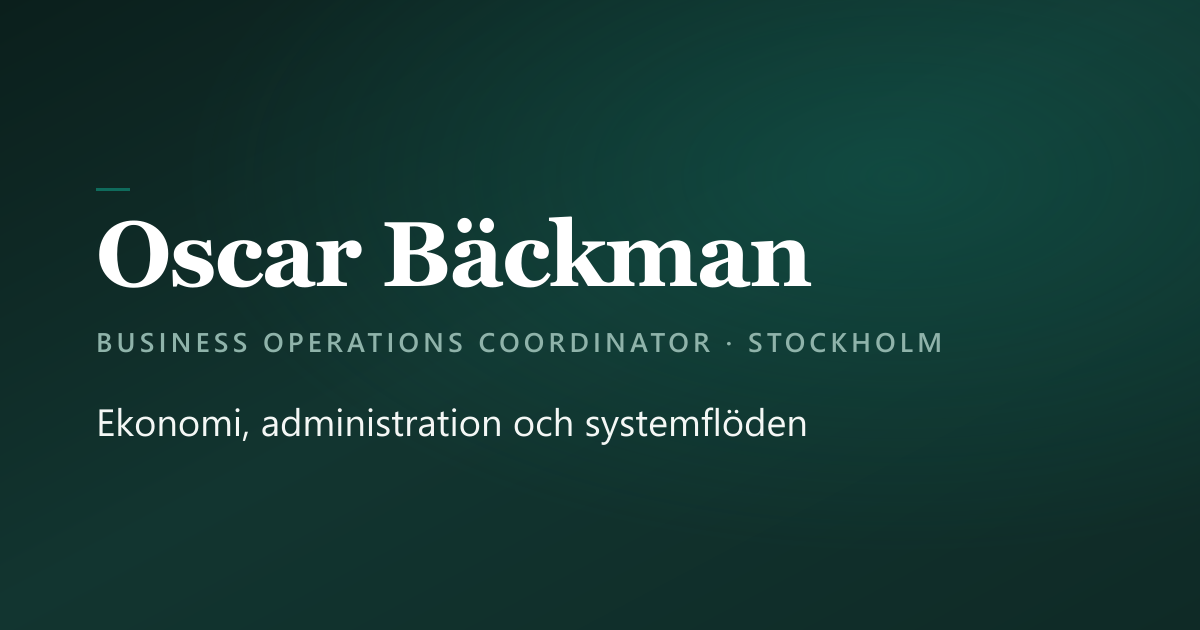
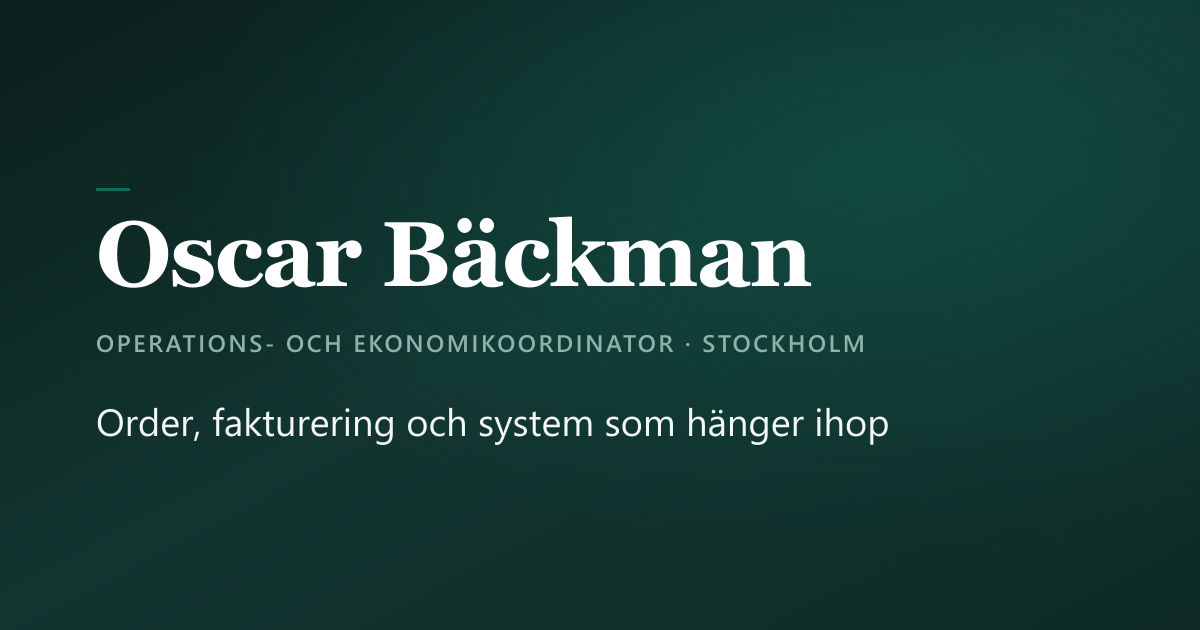
Update site branding to Operations- och ekonomikoordinator.
Align title, profile copy, SEO metadata, and OG image with the Swedish role description.

Changed region(s): [[0.0617, 0.5127, 0.8017, 0.573], [0.0617, 0.6333, 0.74, 0.6937]]

diff --git a/public/index.html b/public/index.html
@@ -11,26 +11,26 @@
     <meta name="author" content="Oscar Bäckman" />
     <meta name="robots" content="index, follow" />
 
-    <title>Oscar Bäckman — Business Operations Coordinator</title>
-    <meta name="description" content="Business Operations Coordinator i Stockholm. Håller ihop ekonomi, order och systemflöden i bolag som växer fortare än sina rutiner." />
+    <title>Oscar Bäckman — Operations- och ekonomikoordinator</title>
+    <meta name="description" content="Operations- och ekonomikoordinator i Stockholm. Håller ihop order, fakturering och systemflöden så att rätt saker händer i rätt ordning." />
     <link rel="canonical" href="https://oscarbackman.se/" />
 
     <meta property="og:site_name" content="Oscar Bäckman" />
-    <meta property="og:title" content="Oscar Bäckman — Business Operations Coordinator" />
-    <meta property="og:description" content="Business Operations Coordinator i Stockholm. Håller ihop ekonomi, order och systemflöden i bolag som växer fortare än sina rutiner." />
+    <meta property="og:title" content="Oscar Bäckman — Operations- och ekonomikoordinator" />
+    <meta property="og:description" content="Operations- och ekonomikoordinator i Stockholm. Håller ihop order, fakturering och systemflöden så att rätt saker händer i rätt ordning." />
     <meta property="og:type" content="website" />
     <meta property="og:url" content="https://oscarbackman.se/" />
     <meta property="og:locale" content="sv_SE" />
     <meta property="og:image" content="https://oscarbackman.se/og.png" />
     <meta property="og:image:width" content="1200" />
     <meta property="og:image:height" content="630" />
-    <meta property="og:image:alt" content="Oscar Bäckman — Business Operations Coordinator i Stockholm" />
+    <meta property="og:image:alt" content="Oscar Bäckman — Operations- och ekonomikoordinator i Stockholm" />
 
     <meta name="twitter:card" content="summary_large_image" />
-    <meta name="twitter:title" content="Oscar Bäckman — Business Operations Coordinator" />
-    <meta name="twitter:description" content="Business Operations Coordinator i Stockholm. Håller ihop ekonomi, order och systemflöden i bolag som växer fortare än sina rutiner." />
+    <meta name="twitter:title" content="Oscar Bäckman — Operations- och ekonomikoordinator" />
+    <meta name="twitter:description" content="Operations- och ekonomikoordinator i Stockholm. Håller ihop order, fakturering och systemflöden så att rätt saker händer i rätt ordning." />
     <meta name="twitter:image" content="https://oscarbackman.se/og.png" />
-    <meta name="twitter:image:alt" content="Oscar Bäckman — Business Operations Coordinator i Stockholm" />
+    <meta name="twitter:image:alt" content="Oscar Bäckman — Operations- och ekonomikoordinator i Stockholm" />
 
     <link rel="preconnect" href="https://fonts.googleapis.com" />
     <link rel="preconnect" href="https://fonts.gstatic.com" crossorigin />
@@ -51,7 +51,7 @@
             "@type": "Person",
             "@id": "https://oscarbackman.se/#person",
             "name": "Oscar Bäckman",
-            "jobTitle": "Business Operations Coordinator",
+            "jobTitle": "Operations- och ekonomikoordinator",
             "email": "jan.oscar.backman@gmail.com",
             "telephone": "+46720101647",
             "url": "https://oscarbackman.se/",

diff --git a/src/components/AboutMe.js b/src/components/AboutMe.js
@@ -1,6 +1,7 @@
 import React, { useState } from 'react';
 import { Link } from 'react-router-dom';
 import Seo from './Seo';
+import { JOB_TITLE, PROFILE_SUMMARY } from '../data/site';
 import './AboutMe.css';
 
 const CV_PDF = '/cv/oscar-backman-cv.pdf';
@@ -23,7 +24,7 @@ function AboutMe() {
     <section className="about section">
       <Seo
         title="Om mig — Oscar Bäckman"
-        description="Bakgrund inom ekonomi, orderadministration och systemintegrationer. Bygger också egna verktyg."
+        description="Operations- och ekonomikoordinator med bakgrund inom order, fakturering och affärssystem. Bygger också egna verktyg."
         path="/about"
       />
       <div className="section-inner">
@@ -40,7 +41,7 @@ function AboutMe() {
               ) : (
                 <img
                   src={useFallback ? PROFILE_IMG_FALLBACK : PROFILE_IMG}
-                  alt="Oscar Bäckman, Business Operations Coordinator i Stockholm"
+                  alt={`Oscar Bäckman, ${JOB_TITLE} i Stockholm`}
                   width={148}
                   height={148}
                   loading="eager"
@@ -53,7 +54,7 @@ function AboutMe() {
               )}
             </div>
             <h2 className="about__name">Oscar Bäckman</h2>
-            <p className="about__role">Business Operations Coordinator</p>
+            <p className="about__role">{JOB_TITLE}</p>
 
             <dl className="about__meta">
               <div>
@@ -84,11 +85,10 @@ function AboutMe() {
 
           <div className="about__body">
             <p className="about__bio reveal" style={{ animationDelay: '0.16s' }}>
-              Jag har flera års erfarenhet av ekonomi, administration och{' '}
-              <span className="hl">systemflöden</span> i IT- och servicebolag.
-              Jag trivs i den koordinerande rollen där processer, avtal och
-              integrationer ska hänga ihop, och arbetar nära ekonomi, försäljning
-              och support.
+              {PROFILE_SUMMARY} Jag har flera års erfarenhet av ekonomi, order och{' '}
+              <span className="hl">affärssystem</span> i IT- och servicebolag — från
+              SuperOffice och Visma till integrationer mellan webshop och fakturering.
+              Jag arbetar nära ekonomi, försäljning och support.
             </p>
             <div className="about__blocks">
               <div className="about__block panel reveal" style={{ animationDelay: '0.2s' }}>

diff --git a/src/data/site.js b/src/data/site.js
@@ -1,10 +1,20 @@
 import { SITE_URL, OG_IMAGE } from '../config';
 
+export const JOB_TITLE = 'Operations- och ekonomikoordinator';
+export const JOB_TITLE_WITH_LOCATION = `${JOB_TITLE} · Stockholm`;
+export const PAGE_TITLE = `Oscar Bäckman — ${JOB_TITLE}`;
+
+export const HOME_DESCRIPTION =
+  'Operations- och ekonomikoordinator i Stockholm. Håller ihop order, fakturering och systemflöden så att rätt saker händer i rätt ordning.';
+
+export const PROFILE_SUMMARY =
+  'Jag håller ihop processerna — ser till att order, fakturering och system fungerar tillsammans, och att rätt information når rätt person i rätt tid.';
+
 export const PERSON = {
   name: 'Oscar Bäckman',
   givenName: 'Oscar',
   familyName: 'Bäckman',
-  jobTitle: 'Business Operations Coordinator',
+  jobTitle: JOB_TITLE,
   email: 'jan.oscar.backman@gmail.com',
   phone: '+46720101647',
   locality: 'Stockholm',
@@ -16,15 +26,14 @@ export const PERSON = {
 
 export const ROUTES = {
   '/': {
-    title: 'Oscar Bäckman — Business Operations Coordinator',
-    description:
-      'Business Operations Coordinator i Stockholm. Håller ihop ekonomi, order och systemflöden i bolag som växer fortare än sina rutiner.',
+    title: PAGE_TITLE,
+    description: HOME_DESCRIPTION,
     breadcrumb: 'Hem',
   },
   '/about': {
     title: 'Om mig — Oscar Bäckman',
     description:
-      'Bakgrund inom ekonomi, orderadministration och systemintegrationer. Bygger också egna verktyg.',
+      'Operations- och ekonomikoordinator med bakgrund inom order, fakturering och affärssystem. Bygger också egna verktyg.',
     breadcrumb: 'Om mig',
   },
   '/projects': {
@@ -36,13 +45,13 @@ export const ROUTES = {
   '/cv': {
     title: 'CV — Oscar Bäckman',
     description:
-      'Meritförteckning: business operations, orderadministration och ekonomiassistent 2017–2026.',
+      'Meritförteckning: operations, orderadministration och ekonomi 2017–2026.',
     breadcrumb: 'CV',
   },
   '/contact': {
     title: 'Kontakt — Oscar Bäckman',
     description:
-      'Öppen för roller inom order, inköp och business operations i Stockholm. Hör av dig.',
+      'Öppen för roller inom order, inköp, ekonomiadministration och operations i Stockholm. Hör av dig.',
     breadcrumb: 'Kontakt',
   },
 };

diff --git a/src/components/Home.js b/src/components/Home.js
@@ -1,6 +1,13 @@
 import React, { useState } from 'react';
 import { Link } from 'react-router-dom';
 import Seo from './Seo';
+import {
+  HOME_DESCRIPTION,
+  JOB_TITLE,
+  JOB_TITLE_WITH_LOCATION,
+  PAGE_TITLE,
+  PROFILE_SUMMARY,
+} from '../data/site';
 import './Home.css';
 
 const PROFILE_IMG = '/profile.jpg';
@@ -11,8 +18,8 @@ function Home() {
   return (
     <section className="home">
       <Seo
-        title="Oscar Bäckman — Business Operations Coordinator"
-        description="Business Operations Coordinator i Stockholm. Håller ihop ekonomi, order och systemflöden i bolag som växer fortare än sina rutiner."
+        title={PAGE_TITLE}
+        description={HOME_DESCRIPTION}
         path="/"
       />
 
@@ -29,7 +36,7 @@ function Home() {
             ) : (
               <img
                 src={PROFILE_IMG}
-                alt="Oscar Bäckman, Business Operations Coordinator i Stockholm"
+                alt={`Oscar Bäckman, ${JOB_TITLE} i Stockholm`}
                 width={132}
                 height={132}
                 loading="eager"
@@ -40,18 +47,17 @@ function Home() {
           </div>
 
           <div className="home__identity">
-            <p className="home__role">Business Operations Coordinator · Stockholm</p>
+            <p className="home__role">{JOB_TITLE_WITH_LOCATION}</p>
             <p className="home__brand">Oscar Bäckman</p>
           </div>
         </div>
 
         <h1 className="home__headline display reveal" style={{ animationDelay: '0.12s' }}>
-          Ekonomi, administration och systemflöden
+          Order, fakturering och system som hänger ihop
         </h1>
 
         <p className="home__lede reveal" style={{ animationDelay: '0.22s' }}>
-          Jag håller ihop ekonomi, order och system i bolag som växer fortare än
-          sina rutiner. Senast på House of Service, där jag ägde kund- och
+          {PROFILE_SUMMARY} Senast på House of Service, där jag ägde kund- och
           leverantörsfakturaflödet, var huvudkontakt mot vår ekonomipartner och
           byggde vidare på integrationerna mellan affärssystem, webshop och
           fakturering.

diff --git a/src/components/CV.js b/src/components/CV.js
@@ -1,6 +1,7 @@
 import React from 'react';
 import { Link } from 'react-router-dom';
 import Seo from './Seo';
+import { JOB_TITLE, PROFILE_SUMMARY } from '../data/site';
 import './CV.css';
 
 const CV_PDF = '/cv/oscar-backman-cv.pdf';
@@ -126,7 +127,7 @@ function CV() {
     <section className="cv section">
       <Seo
         title="CV — Oscar Bäckman"
-        description="Meritförteckning: business operations, orderadministration och ekonomiassistent 2017–2026."
+        description="Meritförteckning: operations, orderadministration och ekonomi 2017–2026."
         path="/cv"
       />
       <div className="section-inner cv__inner">
@@ -135,7 +136,7 @@ function CV() {
           <div className="cv__header-row">
             <div>
               <h1 className="cv__name display">Oscar Bäckman</h1>
-              <p className="cv__title">Business Operations Coordinator</p>
+              <p className="cv__title">{JOB_TITLE}</p>
               <p className="cv__location">Stockholm, Sverige</p>
             </div>
             <a href={CV_PDF} download className="btn cv__download">
@@ -170,11 +171,9 @@ function CV() {
           <article className="cv__block panel reveal" style={{ animationDelay: '0.08s' }}>
             <h2 className="cv__section-title">Profil</h2>
             <p className="cv__text">
-              Jag har flera års erfarenhet av ekonomi, administration och systemflöden i
-              växande IT- och servicebolag. Jag trivs i den koordinerande rollen där
-              processer, avtal och integrationer ska hänga ihop, och arbetar nära ekonomi,
-              försäljning och support. Jag bygger gärna om manuella rutiner till
-              automatiserade flöden och sätter mig snabbt in i nya system.
+              {PROFILE_SUMMARY} Jag har flera års erfarenhet av ekonomi, order och
+              systemflöden i växande IT- och servicebolag. Jag bygger gärna om manuella
+              rutiner till automatiserade flöden och sätter mig snabbt in i nya system.
             </p>
           </article>
 

diff --git a/src/components/Contact.js b/src/components/Contact.js
@@ -90,7 +90,7 @@ function Contact() {
     <section className="contact section">
       <Seo
         title="Kontakt — Oscar Bäckman"
-        description="Öppen för roller inom order, inköp och business operations i Stockholm. Hör av dig."
+        description="Öppen för roller inom order, inköp, ekonomiadministration och operations i Stockholm. Hör av dig."
         path="/contact"
       />
       <div className="section-inner contact__inner">
@@ -100,8 +100,8 @@ function Contact() {
         </h1>
         <p className="contact__lede reveal" style={{ animationDelay: '0.12s' }}>
           Jag är öppen för roller inom order, inköp, ekonomiadministration och
-          business operations i Stockholm — gärna där systemen är många och
-          rutinerna halvfärdiga. Skriv några rader så svarar jag inom ett dygn.
+          operations i Stockholm — gärna där systemen är många och rutinerna
+          halvfärdiga. Skriv några rader så svarar jag inom ett dygn.
         </p>
 
         <form

diff --git a/src/components/layout/Footer.js b/src/components/layout/Footer.js
@@ -1,5 +1,6 @@
 import React from 'react';
 import { Link } from 'react-router-dom';
+import { JOB_TITLE_WITH_LOCATION } from '../../data/site';
 import './Footer.css';
 
 const NAV = [
@@ -20,7 +21,7 @@ function Footer() {
           <Link to="/" className="footer__name">
             Oscar Bäckman
           </Link>
-          <span className="footer__role">Business Operations Coordinator · Stockholm</span>
+          <span className="footer__role">{JOB_TITLE_WITH_LOCATION}</span>
         </div>
 
         <nav className="footer__nav" aria-label="Sidfotsnavigation">

diff --git a/src/components/layout/Footer.test.js b/src/components/layout/Footer.test.js
@@ -15,7 +15,7 @@ jest.mock(
 
 test('renders brand and social links', () => {
   render(<Footer />);
-  expect(screen.getByText(/Business Operations Coordinator/)).toBeInTheDocument();
+  expect(screen.getByText(/Operations- och ekonomikoordinator/)).toBeInTheDocument();
   expect(screen.getByRole('link', { name: /GitHub/i })).toBeInTheDocument();
   expect(screen.getByRole('link', { name: /LinkedIn/i })).toBeInTheDocument();
   expect(screen.getByRole('navigation', { name: /Sidfotsnavigation/i })).toBeInTheDocument();
